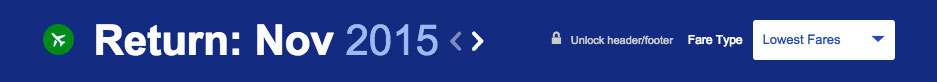
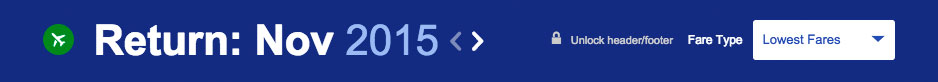
added a fade to the headers, adjusted the header width and modified timing a little

diff --git a/css/style.css b/css/style.css
@@ -125,7 +125,21 @@ body {
   cursor: hand;
 }
 
-/* line 43, ../main.scss */
+/* line 41, ../main.scss */
+.cal_header {
+  position: relative;
+}
+
+/* line 44, ../main.scss */
+.header_fade {
+  position: absolute;
+  width: 250px;
+  height: 82px;
+  left: 90px;
+  background-color: #1a2c80;
+}
+
+/* line 53, ../main.scss */
 .departure .fade_overlay {
   position: absolute;
   background-color: #111b40;
@@ -133,7 +147,7 @@ body {
   height: 100%;
 }
 
-/* line 52, ../main.scss */
+/* line 62, ../main.scss */
 .fare_overlay {
   position: fixed;
   left: 0px;
@@ -146,7 +160,7 @@ body {
 
 {
 "version": 3,
-"mappings": ";;;;;AAKA;;;;;;;;;;;;wBAYyB;EACvB,MAAM,EAAE,CAAC;EACT,OAAO,EAAE,CAAC;EACV,MAAM,EAAE,CAAC;EACT,SAAS,EAAE,IAAI;EACf,IAAI,EAAE,OAAO;EACb,cAAc,EAAE,QAAQ;;;;;AAG1B;0CAC2C;EACzC,OAAO,EAAE,KAAK;;;;AAEhB,IAAK;EACH,WAAW,EAAE,CAAC;;;;AAEhB,MAAO;EACL,UAAU,EAAE,IAAI;;;;AAElB,aAAc;EACZ,MAAM,EAAE,IAAI;;;;AAEd;iBACkB;EAChB,OAAO,EAAE,EAAE;EACX,OAAO,EAAE,IAAI;;;;AAEf,KAAM;EACJ,eAAe,EAAE,QAAQ;EACzB,cAAc,EAAE,CAAC;;;;;AC9CnB,KAAM;EACJ,QAAQ,EAAE,QAAQ;EAClB,OAAO,EAAE,CAAC;EACV,KAAK,EAAE,IAAI;EACX,MAAM,EAAE,IAAI;EACZ,gBAAgB,EAAE,OAAO;;;;AAG3B,WAAY;EACV,UAAU,EAAE,wkGAAqD;EACjE,iBAAiB,EAAE,SAAS;;;;AAG9B,YAAa;EACX,UAAU,EAAE,6pDAAsD;EAClE,iBAAiB,EAAE,SAAS;;;;AAG9B,cAAe;EACb,UAAU,EAAE,28DAAwD;EACpE,iBAAiB,EAAE,SAAS;;;;AAG9B,YAAa;EACX,UAAU,EAAE,i2DAAsD;EAClE,iBAAiB,EAAE,SAAS;;;;ACX9B,IAAK;EACH,gBAAgB,ECdE,OAAO;EDezB,WAAW,ECTD,oBAAQ;EDUlB,SAAS,EAAE,KAAK;;;;AAElB,KAAM;EACJ,KAAK,EAAE,KAAK;EACZ,MAAM,EAAE,MAAM;;;;AAGhB,qBAAsB;EACpB,MAAM,EAAE,KAAK;EACb,QAAQ,EAAE,MAAM;;;AAChB,iCAAY;EACV,QAAQ,EAAE,QAAQ;EAClB,UAAU,EAAE,mDAAmD;EAC/D,MAAM,EAAE,KAAK;;;AACb,6CAAY;EACV,QAAQ,EAAE,QAAQ;EAClB,IAAI,EAAE,KAAK;EACX,GAAG,EAAE,KAAK;EACV,MAAM,EAAE,IAAI;;;;AAOhB,wBAAc;EACZ,QAAQ,EAAE,QAAQ;EAClB,gBAAgB,ECxCA,OAAO;EDyCvB,KAAK,EAAE,IAAI;EACX,MAAM,EAAE,IAAI;;;;AAKhB,aAAc;EACZ,QAAQ,EAAE,KAAK;EACf,IAAI,EAAE,GAAG;EACT,MAAM,EAAE,IAAI;EACZ,KAAK,EAAE,IAAI;EACX,gBAAgB,ECvDE,OAAO",
+"mappings": ";;;;;AAKA;;;;;;;;;;;;wBAYyB;EACvB,MAAM,EAAE,CAAC;EACT,OAAO,EAAE,CAAC;EACV,MAAM,EAAE,CAAC;EACT,SAAS,EAAE,IAAI;EACf,IAAI,EAAE,OAAO;EACb,cAAc,EAAE,QAAQ;;;;;AAG1B;0CAC2C;EACzC,OAAO,EAAE,KAAK;;;;AAEhB,IAAK;EACH,WAAW,EAAE,CAAC;;;;AAEhB,MAAO;EACL,UAAU,EAAE,IAAI;;;;AAElB,aAAc;EACZ,MAAM,EAAE,IAAI;;;;AAEd;iBACkB;EAChB,OAAO,EAAE,EAAE;EACX,OAAO,EAAE,IAAI;;;;AAEf,KAAM;EACJ,eAAe,EAAE,QAAQ;EACzB,cAAc,EAAE,CAAC;;;;;AC9CnB,KAAM;EACJ,QAAQ,EAAE,QAAQ;EAClB,OAAO,EAAE,CAAC;EACV,KAAK,EAAE,IAAI;EACX,MAAM,EAAE,IAAI;EACZ,gBAAgB,EAAE,OAAO;;;;AAG3B,WAAY;EACV,UAAU,EAAE,wkGAAqD;EACjE,iBAAiB,EAAE,SAAS;;;;AAG9B,YAAa;EACX,UAAU,EAAE,6pDAAsD;EAClE,iBAAiB,EAAE,SAAS;;;;AAG9B,cAAe;EACb,UAAU,EAAE,28DAAwD;EACpE,iBAAiB,EAAE,SAAS;;;;AAG9B,YAAa;EACX,UAAU,EAAE,i2DAAsD;EAClE,iBAAiB,EAAE,SAAS;;;;ACX9B,IAAK;EACH,gBAAgB,ECdE,OAAO;EDezB,WAAW,ECRD,oBAAQ;EDSlB,SAAS,EAAE,KAAK;;;;AAElB,KAAM;EACJ,KAAK,EAAE,KAAK;EACZ,MAAM,EAAE,MAAM;;;;AAGhB,qBAAsB;EACpB,MAAM,EAAE,KAAK;EACb,QAAQ,EAAE,MAAM;;;AAChB,iCAAY;EACV,QAAQ,EAAE,QAAQ;EAClB,UAAU,EAAE,mDAAmD;EAC/D,MAAM,EAAE,KAAK;;;AACb,6CAAY;EACV,QAAQ,EAAE,QAAQ;EAClB,IAAI,EAAE,KAAK;EACX,GAAG,EAAE,KAAK;EACV,MAAM,EAAE,IAAI;;;;AAKlB,WAAY;EACV,QAAQ,EAAE,QAAQ;;;;AAEpB,YAAa;EACX,QAAQ,EAAE,QAAQ;EAClB,KAAK,EAAE,KAAK;EACZ,MAAM,EAAE,IAAI;EACZ,IAAI,EAAE,IAAI;EACV,gBAAgB,EC3CE,OAAO;;;;AD+CzB,wBAAc;EACZ,QAAQ,EAAE,QAAQ;EAClB,gBAAgB,EClDA,OAAO;EDmDvB,KAAK,EAAE,IAAI;EACX,MAAM,EAAE,IAAI;;;;AAKhB,aAAc;EACZ,QAAQ,EAAE,KAAK;EACf,IAAI,EAAE,GAAG;EACT,MAAM,EAAE,IAAI;EACZ,KAAK,EAAE,IAAI;EACX,gBAAgB,ECjEE,OAAO",
 "sources": ["../_reset.scss","../_icons.scss","../main.scss","../_vars.scss"],
 "names": [],
 "file": "main.css"

diff --git a/js/script.js b/js/script.js
@@ -13780,6 +13780,9 @@ var departure = $(".departure"),
     departCal = $(".cal_depart"),
     departDay = $(".depart_day"),
     departCalFade = $(".fade_overlay"),
+    headerFadeDepart = $(".header_fade", ".departure"),
+    headerFadeArrive = $(".header_fade", ".arrival"),
+    baseSpeed = 0.45,
     calIsCollapsed = false;
 
 
@@ -13787,6 +13790,8 @@ var departure = $(".departure"),
 initBuild = function() {
   TweenLite.set(departCalFade, {alpha:0});
   TweenLite.set(departDay, {alpha:0});
+  TweenLite.set(headerFadeDepart, {alpha:0});
+  TweenLite.set(headerFadeArrive, {alpha:0.5});
   addListeners();
 }
 
@@ -13801,9 +13806,13 @@ collapseCal = function(evt) {
   if(!calIsCollapsed) {
     calIsCollapsed = true;
     TweenLite.to(departDay, 0.15, {alpha:1});
-    TweenLite.to(departCal, 0.45, {y:-147, ease:Power4.easeInOut});
-    TweenLite.to(departCalFade, 0.45, {alpha:0.5});
-    TweenLite.to(departCalContainer, 0.45, {height:107, ease:Power4.easeInOut});
+    TweenLite.to(departCal, baseSpeed, {y:-147, ease:Power4.easeInOut});
+    TweenLite.to(departCalFade, baseSpeed, {alpha:0.5});
+    TweenLite.to(departCalContainer, baseSpeed, {height:105, ease:Power4.easeInOut});
+    //headers
+    TweenLite.to(headerFadeDepart, 0.1, {alpha:0.5});
+    TweenLite.to(headerFadeArrive, 0.1, {alpha:0});
+
   } else {
     expandCal();
   }
@@ -13813,9 +13822,12 @@ expandCal = function(evt) {
   if(calIsCollapsed) {
     calIsCollapsed = false;
     // TweenLite.to(departDay, 0.15, {alpha:1}); // the day should stay selected
-    TweenLite.to(departCal, 0.45, {y:0, ease:Power4.easeInOut});
-    TweenLite.to(departCalFade, 0.45, {alpha:0});
-    TweenLite.to(departCalContainer, 0.45, {height:607, ease:Power4.easeInOut});
+    TweenLite.to(departCal, baseSpeed, {y:0, ease:Power4.easeInOut});
+    TweenLite.to(departCalFade, baseSpeed, {alpha:0});
+    TweenLite.to(departCalContainer, baseSpeed, {height:607, ease:Power4.easeInOut});
+    //headers
+    TweenLite.to(headerFadeDepart, 0.1, {alpha:0});
+    TweenLite.to(headerFadeArrive, 0.1, {alpha:0.5});
   } else {
     // expandCal();
   }

diff --git a/components/scripts/script.js b/components/scripts/script.js
@@ -10,6 +10,9 @@ var departure = $(".departure"),
     departCal = $(".cal_depart"),
     departDay = $(".depart_day"),
     departCalFade = $(".fade_overlay"),
+    headerFadeDepart = $(".header_fade", ".departure"),
+    headerFadeArrive = $(".header_fade", ".arrival"),
+    baseSpeed = 0.45,
     calIsCollapsed = false;
 
 
@@ -17,6 +20,8 @@ var departure = $(".departure"),
 initBuild = function() {
   TweenLite.set(departCalFade, {alpha:0});
   TweenLite.set(departDay, {alpha:0});
+  TweenLite.set(headerFadeDepart, {alpha:0});
+  TweenLite.set(headerFadeArrive, {alpha:0.5});
   addListeners();
 }
 
@@ -31,9 +36,13 @@ collapseCal = function(evt) {
   if(!calIsCollapsed) {
     calIsCollapsed = true;
     TweenLite.to(departDay, 0.15, {alpha:1});
-    TweenLite.to(departCal, 0.45, {y:-147, ease:Power4.easeInOut});
-    TweenLite.to(departCalFade, 0.45, {alpha:0.5});
-    TweenLite.to(departCalContainer, 0.45, {height:107, ease:Power4.easeInOut});
+    TweenLite.to(departCal, baseSpeed, {y:-147, ease:Power4.easeInOut});
+    TweenLite.to(departCalFade, baseSpeed, {alpha:0.5});
+    TweenLite.to(departCalContainer, baseSpeed, {height:105, ease:Power4.easeInOut});
+    //headers
+    TweenLite.to(headerFadeDepart, 0.1, {alpha:0.5});
+    TweenLite.to(headerFadeArrive, 0.1, {alpha:0});
+
   } else {
     expandCal();
   }
@@ -43,9 +52,12 @@ expandCal = function(evt) {
   if(calIsCollapsed) {
     calIsCollapsed = false;
     // TweenLite.to(departDay, 0.15, {alpha:1}); // the day should stay selected
-    TweenLite.to(departCal, 0.45, {y:0, ease:Power4.easeInOut});
-    TweenLite.to(departCalFade, 0.45, {alpha:0});
-    TweenLite.to(departCalContainer, 0.45, {height:607, ease:Power4.easeInOut});
+    TweenLite.to(departCal, baseSpeed, {y:0, ease:Power4.easeInOut});
+    TweenLite.to(departCalFade, baseSpeed, {alpha:0});
+    TweenLite.to(departCalContainer, baseSpeed, {height:607, ease:Power4.easeInOut});
+    //headers
+    TweenLite.to(headerFadeDepart, 0.1, {alpha:0});
+    TweenLite.to(headerFadeArrive, 0.1, {alpha:0.5});
   } else {
     // expandCal();
   }

diff --git a/index.html b/index.html
@@ -10,8 +10,9 @@
       <img src="images/FPO_lowfare_header.jpg" height="179" width="938" alt="">
     </header>
     <div class="departure">
-      <div class="cal_depart_header">
-        <img src="images/FPO_lowfare_depart_header.jpg" height="82" width="937" alt="">
+      <div class="cal_depart_header cal_header">
+        <div class="depart_header_fade header_fade"></div>
+        <img src="images/FPO_lowfare_depart_header.jpg" height="82" width="938" alt="">
       </div>
       <div class="cal_depart_container">
         <div class="cal_depart">
@@ -22,8 +23,9 @@
       </div>
     </div>
     <div class="arrival">
-      <div class="cal_arrival_header">
-        <img src="images/FPO_lowfare_arrival_header.jpg" height="82" width="937" alt="">
+      <div class="cal_arrival_header cal_header">
+        <div class="arrive_header_fade header_fade"></div>
+        <img src="images/FPO_lowfare_arrival_header.jpg" height="82" width="938" alt="">
       </div>
       <div class="cal_arrival_cal">
         <img src="images/FPO_lowfare_arrival_cal.jpg" height="592" width="938" alt="">

diff --git a/components/sass/_vars.scss b/components/sass/_vars.scss
@@ -3,6 +3,7 @@ $white            : #FFFFFF;
 $icon_grey        : #393939;
 $icon_black       : #000000;
 $blue_selected    : #111b40;
+$blue_bg          : #1a2c80;
 
 $headFont : 'Oswald', sans-serif;
 $bodyFont : 'Oxygen', sans-serif;

diff --git a/components/sass/main.scss b/components/sass/main.scss
@@ -38,6 +38,16 @@ body {
   }
 }
 
+.cal_header {
+  position: relative;
+}
+.header_fade {
+  position: absolute;
+  width: 250px;
+  height: 82px;
+  left: 90px;
+  background-color: $blue_bg;
+}
 
 .departure {
   .fade_overlay {
